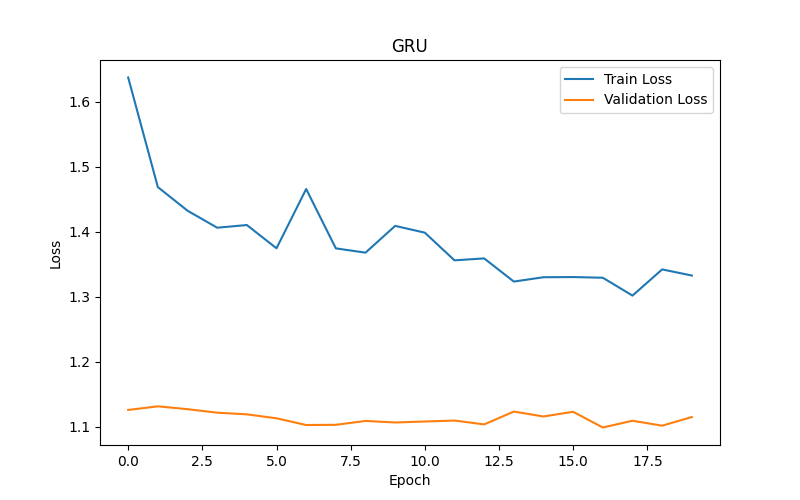
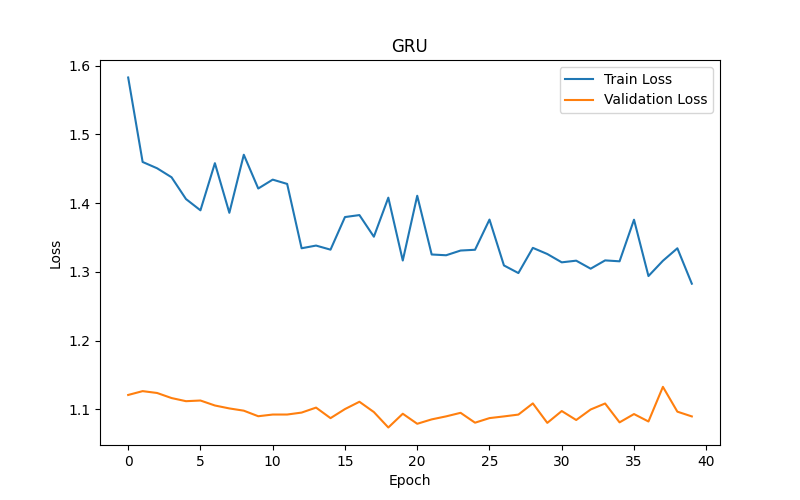
Added Streamlit frontend and FAST API

diff --git a/src/api/inference.py b/src/api/inference.py
@@ -1,0 +1,190 @@
+import pickle
+import torch
+import numpy as np
+from src.models.gru import GRUModel
+from src.components.config_loader import load_config
+from src.components.preprocessing import encode_smiles
+
+config = load_config()
+
+device = torch.device(
+    "cuda" if torch.cuda.is_available() else "cpu"
+)
+
+# Load artifacts
+
+with open("artifacts/encoders.pkl", "rb") as f:
+    encoders = pickle.load(f)
+
+
+print(encoders["cell_type"].classes_)
+print(encoders["sm_name"].classes_[:10])
+print(encoders["sm_lincs_id"].classes_[:10])
+
+with open("artifacts/smiles_vocab.pkl", "rb") as f:
+    char_to_idx = pickle.load(f)
+
+with open("artifacts/scaler.pkl", "rb") as f:
+    scaler = pickle.load(f)
+
+with open("artifacts/top_genes.pkl", "rb") as f:
+    top_genes = pickle.load(f)
+
+
+
+
+
+
+# Create model
+
+params = config["models"]["gru"]
+
+model = GRUModel(
+    smiles_vocab_size=params["smiles_vocab_size"],
+    smiles_embed_dim=params["smiles_embed_dim"],
+    gru_hidden_dim=params["gru_hidden_dim"],
+    structured_dim=params["structured_dim"],
+    output_dim=params["output_dim"]
+)
+
+model.load_state_dict(
+    torch.load(
+        "artifacts/best_model.pth",
+        map_location=device
+    )
+)
+
+
+
+
+
+def predict_gene_expression(data):
+
+    # Encode categorical variables
+
+    cell_type = encoders["cell_type"].transform(
+        [data.cell_type]
+    )[0]
+
+    sm_name = encoders["sm_name"].transform(
+        [data.sm_name]
+    )[0]
+
+    sm_lincs_id = encoders["sm_lincs_id"].transform(
+        [data.sm_lincs_id]
+    )[0]
+
+    # Encode smiles
+
+    smiles_encoded = encode_smiles(
+
+        data.smiles,
+
+        char_to_idx
+
+    )
+
+    # Structured features
+
+    structured = np.array([
+
+        cell_type,
+
+        sm_name,
+
+        sm_lincs_id
+
+    ]).reshape(1, -1)
+
+    # Scale
+
+    structured = scaler.transform(
+
+        structured
+
+    )
+
+    # Convert to tensors
+
+    structured_tensor = torch.tensor(
+
+        structured,
+
+        dtype=torch.float
+
+    ).to(device)
+
+    smiles_tensor = torch.tensor(
+
+        [smiles_encoded],
+
+        dtype=torch.long
+
+    ).to(device)
+
+    # Prediction
+
+    with torch.no_grad():
+
+        prediction = model(
+
+            structured_tensor,
+
+            smiles_tensor
+
+        )
+
+    prediction = prediction.squeeze().cpu().numpy()
+
+    gene_predictions = [
+
+        {
+
+            "gene": gene,
+
+            "value": float(value)
+
+        }
+
+        for gene, value in zip(
+
+            top_genes,
+
+            prediction
+
+        )
+
+    ]
+
+    gene_predictions = sorted(
+
+        gene_predictions,
+
+        key=lambda x: abs(x["value"]),
+
+        reverse=True
+
+    )
+
+    top_k = data.top_k
+
+    selected_genes = gene_predictions[:top_k]
+
+    return {
+
+        "top_genes": selected_genes
+
+    }  
+
+
+
+
+model.to(device)
+model.eval()
+
+
+def predict(data):
+
+    return {
+        "status": "Model loaded successfully"
+    }

diff --git a/streamlit_app.py b/streamlit_app.py
@@ -1,0 +1,95 @@
+import streamlit as st
+import requests
+import pandas as pd
+
+API_URL = "http://127.0.0.1:8000/predict"
+
+st.title(
+    "Drug-Induced Gene Expression Prediction"
+)
+
+cell_type = st.selectbox(
+
+    "Cell Type",
+
+    [
+
+        "B cells",
+
+        "Myeloid cells",
+
+        "NK cells",
+
+        "T cells CD4+",
+
+        "T cells CD8+",
+
+        "T regulatory cells"
+
+    ]
+
+)
+
+sm_name = st.text_input(
+
+    "Drug Name"
+
+)
+
+sm_lincs_id = st.text_input(
+
+    "LINCS ID"
+
+)
+
+smiles = st.text_input(
+
+    "SMILES"
+
+)
+
+
+num_genes = st.slider(
+
+    "Number of top genes to display",
+
+    min_value=5,
+
+    max_value=100,
+
+    value=20,
+
+    step=5
+
+)
+
+if st.button("Predict"):
+
+    payload = {
+
+        "cell_type": cell_type,
+
+        "sm_name": sm_name,
+
+        "sm_lincs_id": sm_lincs_id,
+
+        "smiles": smiles,
+
+        "top_k": num_genes
+
+    }
+
+    response = requests.post(
+        API_URL,
+        json=payload
+    )
+
+    result = response.json()
+
+    df = pd.DataFrame(
+
+        result["top_genes"]
+
+    )
+
+    st.dataframe(df)

diff --git a/src/api/app.py b/src/api/app.py
@@ -1,0 +1,16 @@
+from fastapi import FastAPI
+from src.api.schema import DrugInput
+from src.api.inference import predict_gene_expression
+app = FastAPI()
+
+
[email redacted]("/")
+def home():
+    return {
+        "message": "Drug Response Prediction API is running"
+    }
+
[email redacted]("/predict")
+def predict(data: DrugInput):
+
+    return predict_gene_expression(data)

diff --git a/src/components/train_sequence.py b/src/components/train_sequence.py
@@ -1,5 +1,6 @@
 import time
 import torch
+import os
 from src.components.visualize import save_loss_curve
 from src.components.mlflow_logger import (
     setup_experiment,
@@ -23,7 +24,7 @@ def train_sequence_model(
 
     train_losses = []
     val_losses = []
-
+    best_val_loss = float("inf")
     setup_experiment(experiment_name)
 
     with start_run():
@@ -115,6 +116,19 @@ def train_sequence_model(
             train_losses.append(train_loss)
 
             val_losses.append(val_loss)
+
+
+
+            if val_loss < best_val_loss:
+
+                best_val_loss = val_loss
+
+                os.makedirs("artifacts", exist_ok=True)
+
+                torch.save(
+                    model.state_dict(),
+                    "artifacts/best_model.pth"
+                )
 
             ####################
             # SIGN ACCURACY

diff --git a/src/api/schema.py b/src/api/schema.py
@@ -1,0 +1,9 @@
+from pydantic import BaseModel
+
+
+class DrugInput(BaseModel):
+    cell_type: str
+    sm_name: str
+    sm_lincs_id: str
+    smiles: str
+    top_k: int = 20